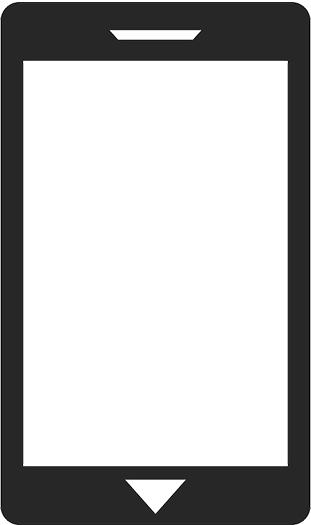
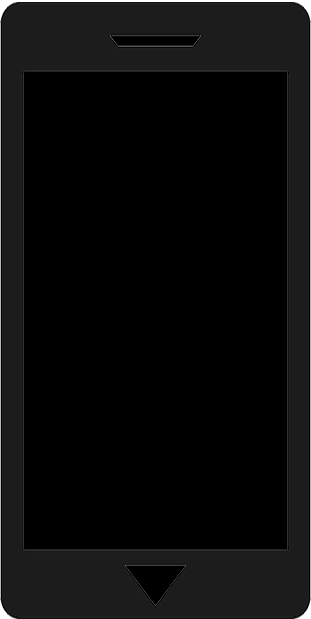
Continuação projeto Iframe 06

diff --git a/desafios/Iframe/Iframe projeto/style.css b/desafios/Iframe/Iframe projeto/style.css
@@ -4,6 +4,12 @@
     margin: 0px;
     padding: 0px;
 }
+h1{
+    text-align: center;
+    color: white;
+    font-family: monospace;
+    font-size: 3em;
+}
 html, body{
     background-image: url(imagens/background.jpg);
     background-size: cover;
@@ -16,12 +22,37 @@ main{
     height: 90vh;
 }
 section#phone{
-    width: 311px;
-    height: 525px;
-    background: url(imagens/phoneC2.png);
+    width: 310px;
+    height: 620px;
+    background: url(imagens/phoneC.png);
     position: absolute;
     top: 50%;
     left: 50%;
     transform: translate(-50%, -50%);
+}
+section#social{
+    text-align: right;
+    top: 25%;
+    position: relative;
+}
+section#social > a > img{
+    width: 50px;
+    border-radius: 50%;
+    margin: 10px;
+    box-shadow: 3px 3px 5px rgba(0, 0, 0, 0.76);
+    box-sizing: border-box;
+}
+section#social > a > img:hover{
+    border: 2px solid rgba(255, 255, 255, 0.651);
+    transform: translate(-3px, -3px);
+    box-shadow: 4px 4px 10px rgba(0, 0, 0, 0.781);
+    transition: transform .3s, border 0.1s;
+}
+iframe{
+    position: relative;
+    width:266px ;
+    height: 483px;
+    top: 11%;
+    left: 7%;
 }
 

diff --git a/desafios/Iframe/Iframe projeto/index.html b/desafios/Iframe/Iframe projeto/index.html
@@ -11,10 +11,15 @@
     <h1>Redes sociais</h1>
     <main>
         <section id="phone">
-
+            <iframe name="tela" src="home.html" frameborder="0"></iframe>
         </section>
         <section id="social">
-            
+            <a href="imagens/tela-facebook.jpg" target="tela"><img src="imagens/logo-facebook.jpg" alt=""></a><br>
+            <a href=""><img src="imagens/logo-github.jpg" alt=""></a><br>
+            <a href=""><img src="imagens/logo-home.jpg" alt=""></a><br>
+            <a href=""><img src="imagens/logo-instagram.jpg" alt=""></a><br>
+            <a href=""><img src="imagens/logo-twitter.jpg" alt=""></a><br>
+            <a href=""><img src="imagens/logo-youtube.jpg" alt=""></a>
         </section>
     </main>
 </body>

diff --git a/desafios/Iframe/Iframe projeto/home.html b/desafios/Iframe/Iframe projeto/home.html
@@ -1,0 +1,23 @@
+<!DOCTYPE html>
+<html lang="pt-br">
+<head>
+    <meta charset="UTF-8">
+    <meta name="viewport" content="width=device-width, initial-scale=1.0">
+    <title>Home</title>
+    <style>
+        *{
+            margin: 0px;
+            padding: 0px;
+        }
+        body{
+            width: 100vw;
+            height: 100vh;
+            background: black url(imagens/tela-home.jpg) no-repeat top center;
+            background-size: cover;
+        }
+    </style>
+</head>
+<body>
+
+</body>
+</html>

diff --git a/desafios/Iframe/Iframe projeto/facebook.html b/desafios/Iframe/Iframe projeto/facebook.html
@@ -1,0 +1,22 @@
+<!DOCTYPE html>
+<html lang="pt-br">
+<head>
+    <meta charset="UTF-8">
+    <meta name="viewport" content="width=device-width, initial-scale=1.0">
+    <title>Facebook</title>
+    <style>
+        *{
+            margin: 0px;
+            padding: 0px;
+        }
+        body{
+            width: 100vw;
+            background: black url(imagens/tela-facebook.jpg) no-repeat top center;
+            background-size: cover;
+        }
+    </style>
+</head>
+<body>
+
+</body>
+</html>
